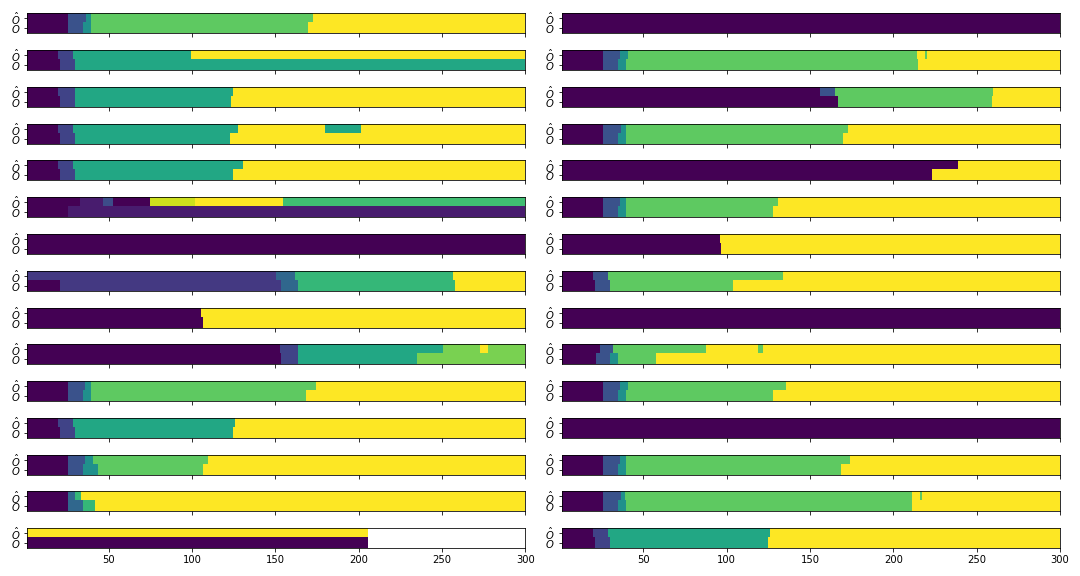
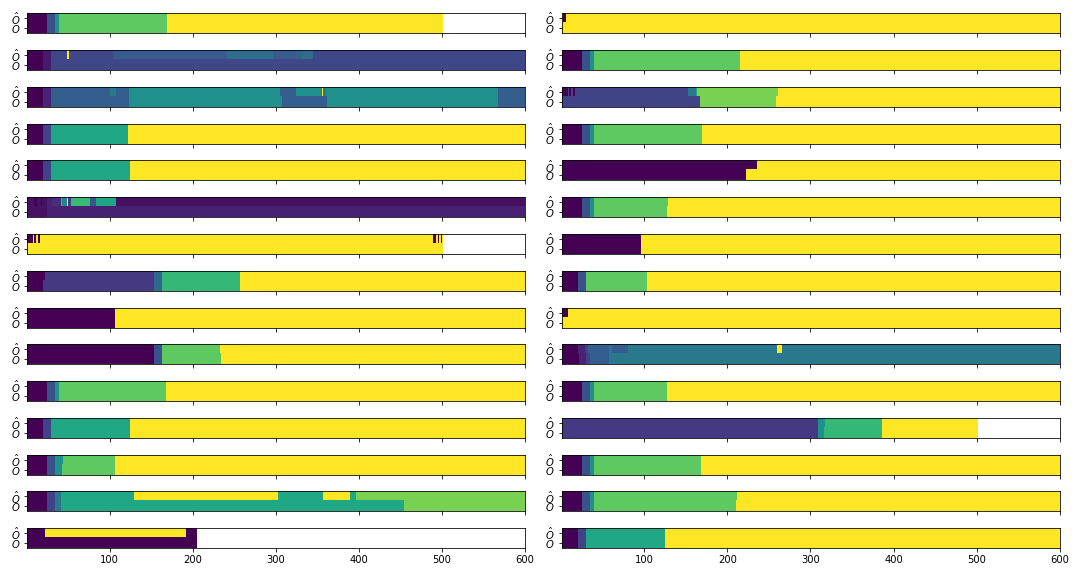
Updated the diagram

diff --git a/Sections/Experiment.tex b/Sections/Experiment.tex
@@ -104,7 +104,7 @@ The code was written using TensorFlow 2's keras API.
 
 
 
-\subsection{System Under Study}
+\subsection{System Under Study} \label{mp_data_collection}
 
 Our case study was a real-time controller system, an AutoPilot developed by Winnipeg based Micro Pilot Inc. Micro Pilot is the world-leader in professional UAV AutoPilot which develops both the hardware and the software for 1000+ clients (including NASA, Raytheon, and Northrop Grumman) in 85+ countries during the past 20+ years.
 
@@ -120,11 +120,11 @@ Of course pinpointing the exact moment when the changes happen is difficult; It 
 For example when the autopilot transitions from `hold altitude' state to `descend to X ft' state the goal of the system changes to `descend with a constant sink rate of Y ft/min' until it reaches the desired altitude. It results in change in the set of invariants that the AutoPilot is trying to hold which in turn is reflected in how changes in certain inputs (e.g. altimeter reading) cause the autopilot take actions by making adjustments in certain outputs (e.g. throttle and elevator output). 
 
 
-\subsection{Data Set} \label{mp_data_collection}
+% \subsection{Data Set} \label{mp_data_collection}
 We ran 948 available tests in a software simulator\footnote{It is developed by MicroPilot Inc and provides a realistic simulation of the aerodynamic  forces on the aircraft, the physical environment irregularities (e.g. unexpected wind gusts), and noises in sensor readings} and collected the flight data. The tests were system tests. They include a flight scenario for various supported aircraft. The scenario goes through different phases in flight such as taking off, cruising, following a path, and landing.
-We sampled inputs and outputs values with a 200ms resolution.
-It is the same time interval that the AutoPilot reads the sensor values and performs the calculations required to update its output values.
-The list of AutoPilot inputs and outputs are shown in table \ref{tab:in_outs}.
+We sampled inputs and outputs values at 5 Hz rate.
+It is chosen because the AutoPilot reads the sensor values and performs the calculations required to update its output values at the same rate.
+The list of AutoPilot inputs and outputs are shown in table~\ref{tab:in_outs}.
 
 
 \begin{table}[ht]
@@ -152,7 +152,7 @@ Flaps     & Surfaces of back of the wings that provide extra lift at low speeds,
 \footnotetext{Above Ground Level}
 
 
-Out of the 948 flight logs, we omitted 60 of them which were either too short or too long (shorter than 200 samples or longer than 20k samples). Figure \ref{fig:test_lengths} shows the distribution of the remaining log lengths.
+Out of the 948 flight logs, we omitted 60 of them which were either too short or too long (shorter than 200 samples or longer than 20k samples). Figure~\ref{fig:test_lengths} shows the distribution of the remaining log lengths.
 
 \begin{figure}[h]
     \centering
@@ -161,7 +161,7 @@ Out of the 948 flight logs, we omitted 60 of them which were either too short or
     \label{fig:test_lengths}
 \end{figure}
 
-As mentioned in \ref{data_set_properties} each datum is a multivariate time series with $n=10$ variables (listed in table \ref{tab:in_outs}). 
+As mentioned in \ref{data_set_properties} each datum is a multivariate time series with $n=10$ variables (listed in table~\ref{tab:in_outs}). 
 During the data pre-processing, after the time series data is converted into tensors, all of the shorter $T_i$s were post-padded to the length of the longest one: $L=18001$ time steps. 
 
 \section{Results}
@@ -175,6 +175,6 @@ Maybe the traditional statistical CPD algorithms could outperform our method if 
 \begin{figure*}[ht]
     \centering
     \includegraphics[width=\linewidth]{Sections/test_0.png}
-    \caption{Evaluation of the model on unseen data. Each graph shows the state changes in one run of the system. The colors show the states. Top half of each plot depicts model's prediction of the system state ($\hat{O}$) and the bottom half shows the true labels($O$). Since the output is one-hot encoded, the item with the most probability is used as the predicted label at each point in time. X-axis is the time axis. Only the first 300 samples (1 minute of simulation) are shown to improve legibility.}
+    \caption{Evaluation of the model on unseen data. Each graph shows the state changes in one run of the system. The colors show the states. Top half of each plot depicts model's prediction of the system state ($\hat{O}$) and the bottom half shows the true labels($O$). Since the output is one-hot encoded, the item with the most probability is used as the predicted label at each point in time. X-axis is the time axis. Only the first 600 samples (2 minute of simulation) are shown to improve legibility.}
     \label{fig:test_0}
 \end{figure*}

diff --git a/Sections/Approach.tex b/Sections/Approach.tex
@@ -21,7 +21,7 @@ Multi-variate time series are defined as a set of $n$ univariate time series ($V
 \end{equation}
 
 
-Ideally in each run the system will go through some internal state changes which are labeled manually by a domain expert. In section \ref{mp_data_collection} we explain what we did to keep the variety of the collected data (and hence its quality) high.
+Ideally in each run the system will go through some internal state changes which are labeled manually by a domain expert. In section~\ref{mp_data_collection} we explain what we did to keep the variety of the collected data (and hence its quality) high.
 
 The input/output values data are half of the data. We also need a set of true labels to be predicted to complete the data set.
 A typical way to obtain the labels is to get some help from domain experts. For each run the y provide a set of tuples in form of $(t_s, s)$ where $t_s$ denotes the timestamp where the system entered state $s$. We show the set of all possible states with $S$ ($s \in S$) and define $N_s$ as the cardinality of this set. 
@@ -52,7 +52,7 @@ Combining all, each training instance will be the tuple $(T_k, CP_k)$.
 Since TensorFlow requires all the data to have the same shape, the shorter $T_k$s should be zero-padded to length ,$L = max\{l_k\}$.
 Therefore in the end the input to the model will be $T_k$s that are rearranged to form a tensor of shape $n \times L$ along with a padding mask. Padding mask is used to prevent the added zero values having a negative effect on the model's performance. It tells the model where the tail starts so the model can ignore all the zeros from there on.
 
-The true labels ($O$, also called labels in ML literature) is a vector of length $L$ (after padding) where each element $\o_t$ holds the one-hot encoded state at time $t$. It can be determined easily by consulting set $CP_k$ (definition \eqref{eq:change_point}) as defined in \eqref{eq:output}.
+The true labels ($O$, also called labels in ML literature) is a vector of length $L$ (after padding) where each element $o_t$ holds the one-hot encoded state at time $t$. It can be determined easily by consulting set $CP_k$ (definition \eqref{eq:change_point}) as defined in \eqref{eq:output}.
 \begin{equation} \label{eq:output}
 \begin{split}
 O = \langle  \forall t \in \mathbb{N}_L : s_i | 
